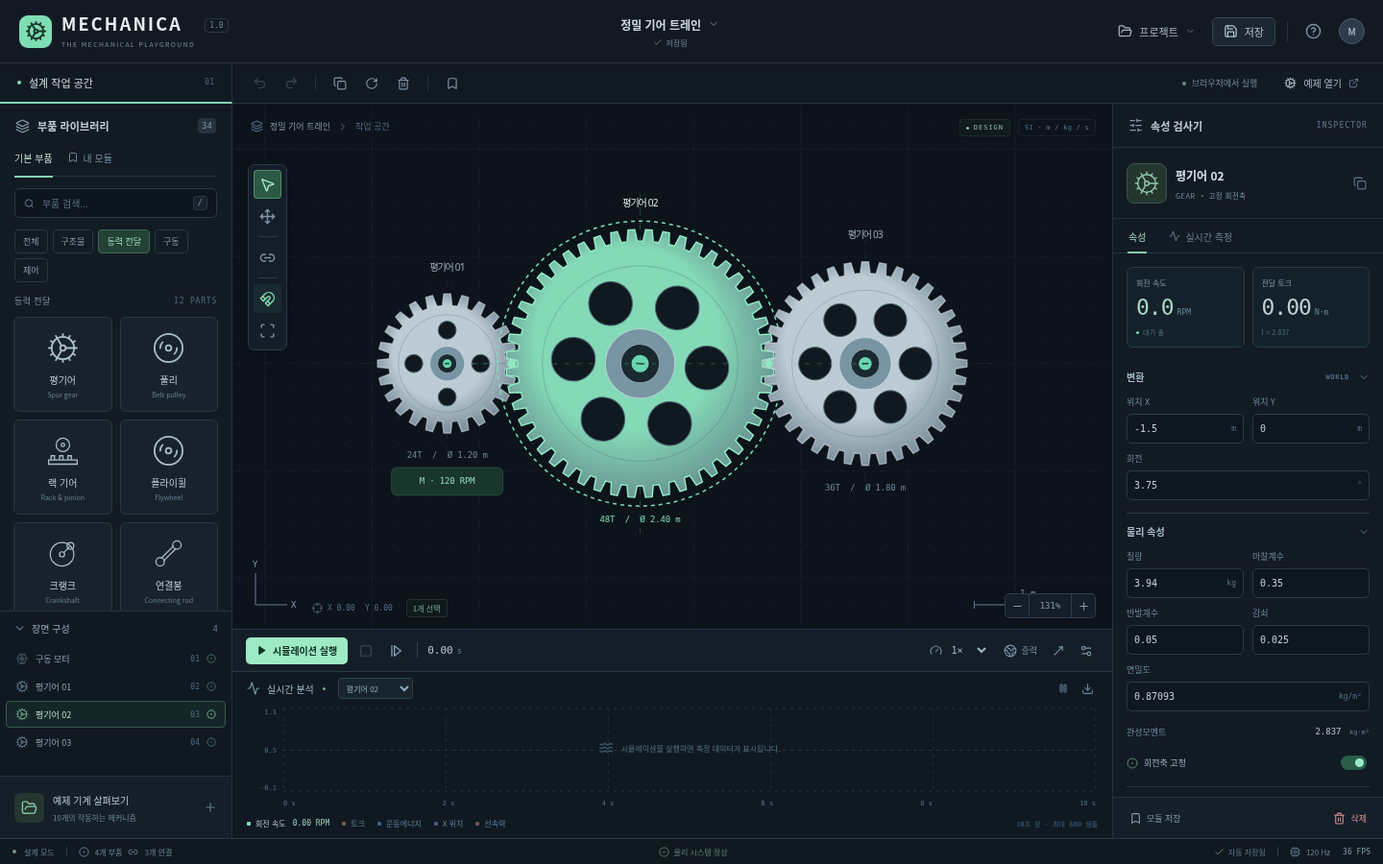
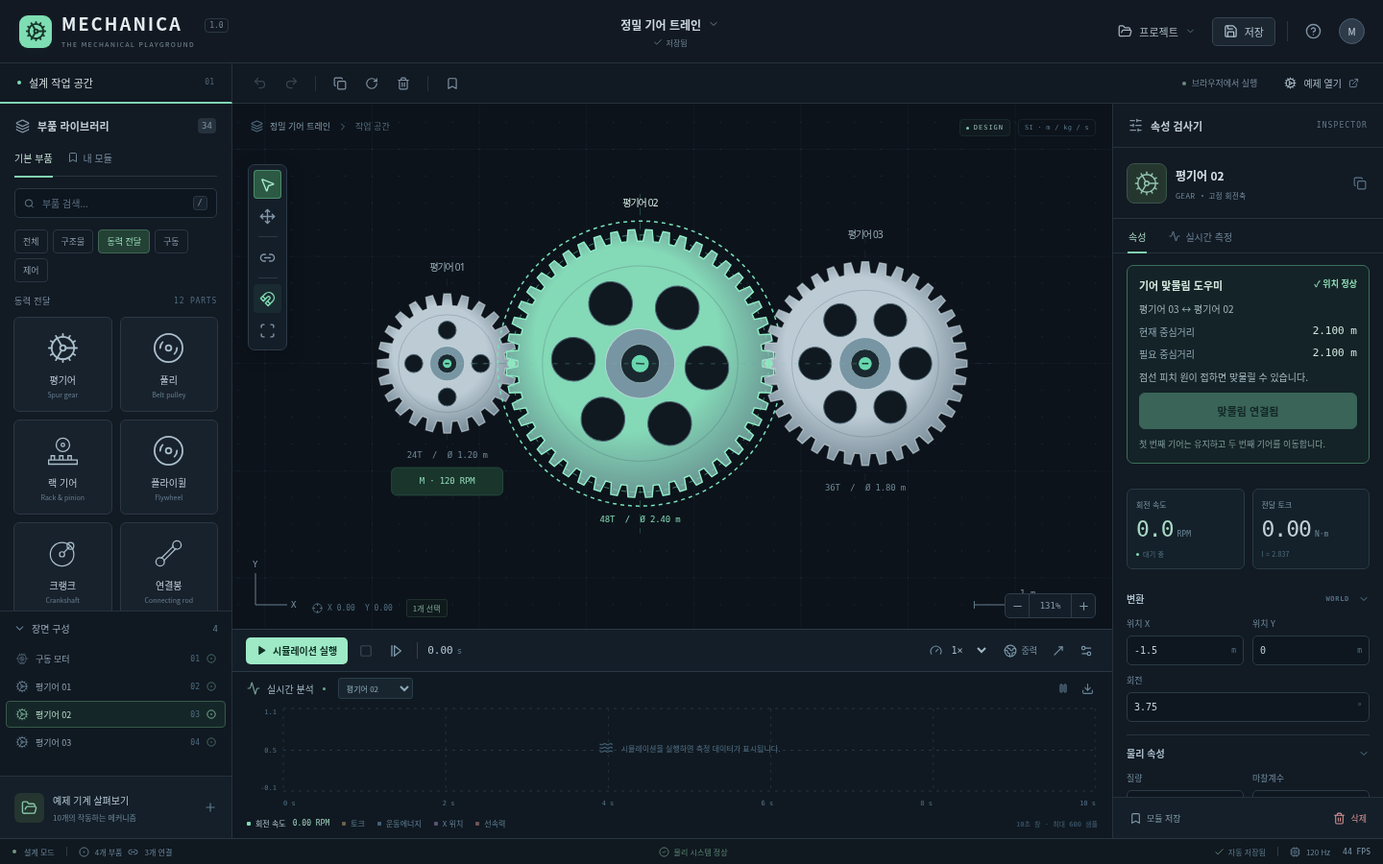
Make gear meshing discoverable and add direct canvas resizing

diff --git a/src/components/Workspace.tsx b/src/components/Workspace.tsx
@@ -2,11 +2,12 @@ import { useEffect, useRef, useState } from 'react';
 import { MousePointer2, Move, Link2, Magnet, Grid3X3, Crosshair, Minus, Plus, Scan, ChevronRight, Layers3 } from 'lucide-react';
 import { useEditor } from '../store/editor';
 import { useSimulation, simulationFrame } from '../store/simulation';
-import { type Part, type Vec, type Tool, ROTARY, LOGIC, radiusOf, localToWorld, worldToLocal, portsOf } from '../model/types';
+import { type Part, type Vec, type Tool, ROTARY, LOGIC, radiusOf, localToWorld, worldToLocal, portsOf, isGear } from '../model/types';
 import { makePart, makeConnection, LIBRARY, CONNECTION_NAMES, type LibraryItem } from '../model/library';
+import { snapGear, resizeFromEdge, resizable, resizeHandles } from '../model/editing';
 import { nearestPort } from '../physics/validation';
 import { drawPart, drawConnection, drawAnnotations, drawVector, partBounds } from './render';
-type Drag={kind:'pan';start:Vec;camera:Vec}|{kind:'parts';start:Vec;positions:Map<string,Vec>;preview:Map<string,Vec>}|{kind:'box';start:Vec;end:Vec;shift:boolean}|{kind:'physical'};
+type Drag={kind:'resize';original:Part;edge:number;preview:Part}|{kind:'pan';start:Vec;camera:Vec}|{kind:'parts';start:Vec;positions:Map<string,Vec>;preview:Map<string,Vec>}|{kind:'box';start:Vec;end:Vec;shift:boolean}|{kind:'physical'};
 export function Workspace(){
   const canvas=useRef<HTMLCanvasElement>(null),container=useRef<HTMLDivElement>(null);
   const dims=useRef({width:1,height:1}),drag=useRef<Drag|null>(null),pointer=useRef<Vec>({x:0,y:0}),hover=useRef<string|null>(null);
@@ -45,7 +46,7 @@ export function Workspace(){
       for(let x=Math.floor(left/grid)*grid;x<right;x+=grid)for(let y=Math.floor(top/grid)*grid;y<bottom;y+=grid){ctx.beginPath();ctx.arc(x,y,.65/k,0,Math.PI*2);ctx.fill();}
       ctx.lineWidth=1/k;ctx.strokeStyle='#52677a15';ctx.beginPath();for(let x=Math.floor(left/(grid*4))*grid*4;x<right;x+=grid*4){ctx.moveTo(x,top);ctx.lineTo(x,bottom);}for(let y=Math.floor(top/(grid*4))*grid*4;y<bottom;y+=grid*4){ctx.moveTo(left,y);ctx.lineTo(right,y);}ctx.stroke();
       const preview=drag.current?.kind==='parts'?drag.current.preview:null;
-      const parts=preview?s.project.parts.map(p=>({...p,...preview.get(p.id)})):s.project.parts;
+      const parts=preview?s.project.parts.map(p=>({...p,...preview.get(p.id)})):drag.current?.kind==='resize'?s.project.parts.map(p=>p.id===(drag.current as Extract<Drag,{kind:'resize'}>).preview.id?(drag.current as Extract<Drag,{kind:'resize'}>).preview:p):s.project.parts;
       const project={...s.project,parts};
       const index=new Map(parts.map(p=>[p.id,p]));
       const visible=parts.filter(p=>{const pose=engine?.pose(p.id)??p,extent=ROTARY.has(p.kind)?radiusOf(p)+.8:Math.hypot(p.width,p.height)/2+.8;return pose.x+extent>left&&pose.x-extent<right&&pose.y+extent>top&&pose.y-extent<bottom;});
@@ -53,6 +54,15 @@ export function Workspace(){
       for(const p of visible)drawPart(ctx,p,s.selected.includes(p.id),hover.current===p.id,k,engine);
       if(s.project.settings.showConnections)for(const c of project.connections.filter(c=>!['signal','spring','rope','weld'].includes(c.kind)))drawConnection(ctx,c,project,engine,k,index);
       if(s.project.settings.showLabels&&k>30)for(const p of visible)drawAnnotations(ctx,p,k,engine,s.selected.includes(p.id));
+      if(sim.mode==='design'){
+        for(const p of visible){
+          if(isGear(p)&&(s.selected.includes(p.id)||drag.current?.kind==='parts')){ctx.save();ctx.strokeStyle='#7eddb290';ctx.lineWidth=1/k;ctx.setLineDash([5/k,4/k]);ctx.beginPath();ctx.arc(p.x,p.y,radiusOf(p),0,Math.PI*2);ctx.stroke();ctx.restore();}
+          if(s.tool==='select'&&!s.placing&&s.selected.length===1&&s.selected[0]===p.id&&resizable(p)){
+            for(const h of resizeHandles(p)){const at=localToWorld(p,h);ctx.fillStyle='#8fe8c1';ctx.strokeStyle='#183e2c';ctx.lineWidth=1/k;ctx.fillRect(at.x-5/k,at.y-5/k,10/k,10/k);ctx.strokeRect(at.x-5/k,at.y-5/k,10/k,10/k);}
+            ctx.fillStyle='#aad9c5';ctx.font=`${11/k}px system-ui`;ctx.textAlign='center';ctx.fillText(`↔ ${p.width.toFixed(2)} m  ×  ${p.height.toFixed(2)} m · 네모를 드래그`,p.x,p.y+(Math.abs(Math.sin(p.angle))*p.width+Math.abs(Math.cos(p.angle))*p.height)/2+22/k);ctx.textAlign='left';
+          }
+        }
+      }
       if(s.project.settings.showVectors&&engine){
         for(const p of visible){const m=engine.metric(p.id)!;if(m.speed>.001)drawVector(ctx,m,{x:m.x+m.vx*.2,y:m.y+m.vy*.2},'#8dbfee',k);const r=engine.parts.get(p.id)!;if(r.mount){const f=r.mount.getReactionForce(120);if(f.length()>.05)drawVector(ctx,m,{x:m.x+f.x*.012,y:m.y+f.y*.012},'#e4b677',k);}if(ROTARY.has(p.kind)&&Math.abs(m.omega)>.01){const rad=radiusOf(p)*.53,dir=Math.sign(m.omega),end=dir*1.1;ctx.beginPath();ctx.arc(m.x,m.y,rad,0,end,dir<0);ctx.strokeStyle='#8ae9bd';ctx.lineWidth=1.5/k;ctx.stroke();const at={x:m.x+Math.cos(end)*rad,y:m.y+Math.sin(end)*rad};drawVector(ctx,{x:at.x+Math.sin(end)*dir*.08,y:at.y-Math.cos(end)*dir*.08},at,'#8ae9bd',k);}}
         for(const p of engine.contacts){ctx.beginPath();ctx.arc(p.x,p.y,3/k,0,Math.PI*2);ctx.fillStyle='#edb275';ctx.fill();}
@@ -71,14 +81,16 @@ export function Workspace(){
     }
     request=requestAnimationFrame(draw);
     const wheel=(e:WheelEvent)=>{e.preventDefault();const pt=eventPoint(e),before=toWorld(pt),camera=useEditor.getState().camera,next=Math.max(18,Math.min(350,camera.scale*Math.exp(-e.deltaY*.0015)));useEditor.setState({camera:{scale:next,x:before.x-(pt.x-dims.current.width/2)/next,y:before.y-(pt.y-dims.current.height/2)/next}});};
+    const cancel=(e:KeyboardEvent)=>{if(e.key==='Escape'){drag.current=null;useSimulation.getState().engine?.endDrag();}};window.addEventListener('keydown',cancel);
     el.addEventListener('wheel',wheel,{passive:false});
-    return()=>{cancelAnimationFrame(request);resize.disconnect();el.removeEventListener('wheel',wheel);};
+    return()=>{window.removeEventListener('keydown',cancel);cancelAnimationFrame(request);resize.disconnect();el.removeEventListener('wheel',wheel);};
   },[]);
   function down(e:React.PointerEvent<HTMLCanvasElement>){
     if(e.button===2)return;e.currentTarget.setPointerCapture(e.pointerId);
     const pt=eventPoint(e),w=toWorld(pt),s=useEditor.getState(),sim=useSimulation.getState();pointer.current=pt;
     if(s.tool==='pan'||e.button===1){drag.current={kind:'pan',start:pt,camera:{x:s.camera.x,y:s.camera.y}};return;}
     if(s.placing&&sim.mode==='design'){const grid=s.project.settings.gridSize;const point=s.project.settings.snap?{x:Math.round(w.x/grid)*grid,y:Math.round(w.y/grid)*grid}:w;s.addLibrary(s.placing,point);return;}
+    if(sim.mode==='design'&&s.tool==='select'&&s.selected.length===1){const chosen=s.project.parts.find(p=>p.id===s.selected[0]);if(chosen&&resizable(chosen)){const edge=resizeHandles(chosen).findIndex(h=>{const a=localToWorld(chosen,h);return Math.hypot(a.x-w.x,a.y-w.y)<10/s.camera.scale;});if(edge>=0){drag.current={kind:'resize',original:chosen,edge,preview:chosen};return;}}}
     const p=hit(w);
     if(s.tool==='connect'&&sim.mode==='design'){
       if(!p)return;const center=['gear','shaft','belt','crossed','rack','clutch','signal'].includes(s.connectionKind),port=center?{x:0,y:0}:nearestPort(p,w,portsOf(p));
@@ -95,10 +107,11 @@ export function Workspace(){
   }
   function move(e:React.PointerEvent<HTMLCanvasElement>){
     const pt=eventPoint(e),w=toWorld(pt);pointer.current=pt;setCursor(w);const d=drag.current,s=useEditor.getState();
-    if(!d){hover.current=hit(w)?.id??null;return;}
+    if(!d){hover.current=hit(w)?.id??null;const chosen=s.project.parts.find(p=>p.id===s.selected[0]);let onHandle=false;if(useSimulation.getState().mode==='design'&&s.tool==='select'&&!s.placing&&s.selected.length===1&&chosen&&resizable(chosen))onHandle=resizeHandles(chosen).some(h=>{const a=localToWorld(chosen,h);return Math.hypot(a.x-w.x,a.y-w.y)<10/s.camera.scale;});if(canvas.current)canvas.current.style.cursor=onHandle?'nwse-resize':s.tool==='pan'?'grab':s.placing||s.tool==='connect'?'crosshair':'default';return;}
     if(d.kind==='pan'){useEditor.setState({camera:{...s.camera,x:d.camera.x-(pt.x-d.start.x)/s.camera.scale,y:d.camera.y-(pt.y-d.start.y)/s.camera.scale}});}
     else if(d.kind==='box')d.end=w;
     else if(d.kind==='physical')useSimulation.getState().engine?.drag(w);
+    else if(d.kind==='resize'){d.preview=resizeFromEdge(d.original,d.edge,w,s.project.settings.snap&&!e.altKey?s.project.settings.gridSize:0);}
     else if(d.kind==='parts'){
       let dx=w.x-d.start.x,dy=w.y-d.start.y;const first=d.positions.values().next().value!;
       if(s.project.settings.snap&&!e.altKey){const grid=s.project.settings.gridSize;dx=Math.round((first.x+dx)/grid)*grid-first.x;dy=Math.round((first.y+dy)/grid)*grid-first.y;
@@ -106,19 +119,21 @@ export function Workspace(){
         for(const[id,old]of d.positions){const p=s.project.parts.find(p=>p.id===id)!;for(const port of portsOf(p)){const a=localToWorld({...p,x:old.x+dx,y:old.y+dy},port);for(const other of s.project.parts){if(d.positions.has(other.id))continue;for(const bport of portsOf(other)){const b=localToWorld(other,bport),dist=Math.hypot(b.x-a.x,b.y-a.y);if(dist<closest){closest=dist;adjust={x:b.x-a.x,y:b.y-a.y};}}}}}
         if(adjust){dx+=adjust.x;dy+=adjust.y;}
       }
+      if(s.project.settings.snap&&!e.altKey&&d.positions.size===1){const id=[...d.positions.keys()][0],p=s.project.parts.find(p=>p.id===id)!,old=d.positions.get(id)!;const snapped=snapGear({...p,x:old.x+dx,y:old.y+dy},s.project.parts,18/s.camera.scale);if(snapped){dx=snapped.point.x-old.x;dy=snapped.point.y-old.y;}}
       d.preview=new Map([...d.positions].map(([id,p])=>[id,{x:p.x+dx,y:p.y+dy}]));
     }
   }
   function up(e:React.PointerEvent<HTMLCanvasElement>){
     const d=drag.current,s=useEditor.getState();drag.current=null;
     if(e.currentTarget.hasPointerCapture(e.pointerId))e.currentTarget.releasePointerCapture(e.pointerId);
+    if(d?.kind==='resize'&&Math.abs(d.preview.width-d.original.width)+Math.abs(d.preview.height-d.original.height)>.001)s.resizePart(d.preview);
     if(d?.kind==='physical')useSimulation.getState().engine?.endDrag();
     if(d?.kind==='parts'){const changed=[...d.preview].some(([id,p])=>Math.hypot(p.x-d.positions.get(id)!.x,p.y-d.positions.get(id)!.y)>.001);if(changed)s.moveParts(d.preview);}
     if(d?.kind==='box'){const minX=Math.min(d.start.x,d.end.x),maxX=Math.max(d.start.x,d.end.x),minY=Math.min(d.start.y,d.end.y),maxY=Math.max(d.start.y,d.end.y);const ids=s.project.parts.filter(p=>p.x>=minX&&p.x<=maxX&&p.y>=minY&&p.y<=maxY).map(p=>p.id);s.select(d.shift?[...new Set([...s.selected,...ids])]:ids);}
   }
   const setTool=(tool:Tool)=>{useEditor.setState({tool,placing:null,from:null});};
   return <div className={`workspace ${tool==='pan'?'panning':placing||tool==='connect'?'placing':''}`} ref={container}>
-    <canvas ref={canvas} aria-label="기계 설계 작업 공간" tabIndex={0} onPointerDown={down} onPointerMove={move} onPointerUp={up} onPointerCancel={up} onContextMenu={e=>e.preventDefault()} onDragOver={e=>{e.preventDefault();e.dataTransfer.dropEffect='copy';}} onDrop={e=>{e.preventDefault();if(mode!=='design')return;const kind=e.dataTransfer.getData('mechanica/part') as LibraryItem['kind'];if(LIBRARY.some(i=>i.kind===kind))useEditor.getState().addLibrary(kind,toWorld(eventPoint(e)));}} />
+    <canvas ref={canvas} aria-label="기계 설계 작업 공간" tabIndex={0} onPointerDown={down} onPointerMove={move} onPointerUp={up} onPointerCancel={()=>{drag.current=null;useSimulation.getState().engine?.endDrag();}} onContextMenu={e=>e.preventDefault()} onDragOver={e=>{e.preventDefault();e.dataTransfer.dropEffect='copy';}} onDrop={e=>{e.preventDefault();if(mode!=='design')return;const kind=e.dataTransfer.getData('mechanica/part') as LibraryItem['kind'];if(LIBRARY.some(i=>i.kind===kind))useEditor.getState().addLibrary(kind,toWorld(eventPoint(e)));}} />
     <div className="canvas-breadcrumb"><Layers3 size={13}/><span>{name}</span><ChevronRight size={12}/><span className="muted">작업 공간</span></div>
     <div className="canvas-badges"><span className={`mode-pill ${mode!=='design'?'live':''}`}><i/>{mode==='design'?'DESIGN':mode==='running'?'LIVE PHYSICS':'PAUSED'}</span><span className="si-badge">SI · m / kg / s</span></div>
     <div className="floating-tools" role="toolbar" aria-label="편집 도구">

diff --git a/src/components/Inspector.tsx b/src/components/Inspector.tsx
@@ -1,9 +1,10 @@
-import { useState, useRef } from 'react';
+import { useState, useRef, useEffect } from 'react';
 import { SlidersHorizontal, ChevronDown, CircleDot, Link2, Trash2, Copy, RotateCw, Info, ArrowUpRight, Group, Ungroup, AlignHorizontalJustifyCenter, AlignVerticalJustifyCenter, Bookmark, Activity, Zap } from 'lucide-react';
 import { type Part, type Connection, ROTARY, LINEAR, LOGIC, radiusOf, inertiaOf } from '../model/types';
 import { CONNECTION_NAMES, makeConnection } from '../model/library';
 import { useEditor, connectionFromSelection } from '../store/editor';
 import { useSimulation } from '../store/simulation';
+import { GearAssist } from './GearAssist';
 import { PartIcon } from './PartIcon';
 type FieldProps={label:string;value:number;unit?:string;min?:number;max?:number;step?:number;disabled?:boolean;onChange:(v:number)=>void};
 export function NumericField({label,value,unit,min=-10000,max=10000,step=.1,disabled,onChange}:FieldProps){
@@ -16,14 +17,16 @@ function Section({title,children,badge}:{title:string;children:React.ReactNode;b
 const fmt=(n:number,d=2)=>Number.isFinite(n)?n.toLocaleString('en-US',{minimumFractionDigits:d,maximumFractionDigits:d}):'—';
 export function Inspector(){
   const project=useEditor(s=>s.project),selected=useEditor(s=>s.selected),mode=useSimulation(s=>s.mode),engine=useSimulation(s=>s.engine),metrics=useSimulation(s=>s.metrics);
+  const panel=useRef<HTMLElement>(null);
+  useEffect(()=>{const el=panel.current?.querySelector('.inspector-scroll');if(el)el.scrollTop=0;},[selected.join(',')]);
   const system=useSimulation(s=>s.system);
   const [tab,setTab]=useState<'properties'|'measure'>('properties'),[expanded,setExpanded]=useState<string|null>(null),[connectKind,setConnectKind]=useState<Connection['kind']>('gear');
   const base=project.parts.find(p=>p.id===selected[0]);
   const part=base?(engine?.parts.get(base.id)?.part??base):undefined,m=part?metrics[part.id]:undefined,design=mode==='design';
   const edit=(patch:Partial<Part>)=>{if(!part)return;if(design)useEditor.getState().patchPart(part.id,patch);else{engine?.setLive(part.id,patch);useSimulation.getState().publish();}};
   const patchConnection=(id:string,patch:Partial<Connection>)=>{if(!design){engine?.setConnectionLive(id,patch);useSimulation.getState().publish();return;}useEditor.getState().commit(p=>{const c=p.connections.find(c=>c.id===id);if(c)Object.assign(c,patch);});};
-  return <aside className="inspector-panel"><div className="panel-heading"><div><SlidersHorizontal size={15}/><h2>속성 검사기</h2></div><span className="tiny-label">INSPECTOR</span></div>
-    {selected.length>1?<div className="inspector-scroll"><div className="selection-summary"><span className="selected-part-icon"><Group size={26}/></span><h3>{selected.length}개 부품 선택</h3><p>부품을 함께 편집하고 연결하세요.</p></div>
+  return <aside className="inspector-panel" ref={panel}><div className="panel-heading"><div><SlidersHorizontal size={15}/><h2>속성 검사기</h2></div><span className="tiny-label">INSPECTOR</span></div>
+    {selected.length>1?<div className="inspector-scroll">{design&&<GearAssist/>}<div className="selection-summary"><span className="selected-part-icon"><Group size={26}/></span><h3>{selected.length}개 부품 선택</h3><p>부품을 함께 편집하고 연결하세요.</p></div>
       <Section title="선택 편집"><div className="action-grid"><button disabled={!design} onClick={()=>useEditor.getState().group()}><Group size={15}/> 그룹화</button><button disabled={!design} onClick={()=>useEditor.getState().ungroup()}><Ungroup size={15}/> 그룹 해제</button><button disabled={!design} onClick={()=>useEditor.getState().align('x')}><AlignHorizontalJustifyCenter size={15}/> X 정렬</button><button disabled={!design} onClick={()=>useEditor.getState().align('y')}><AlignVerticalJustifyCenter size={15}/> Y 정렬</button><button disabled={!design} onClick={()=>useEditor.getState().duplicate()}><Copy size={15}/> 복제</button><button disabled={!design} onClick={()=>useEditor.getState().rotateSelected(Math.PI/12)}><RotateCw size={15}/> 15° 회전</button></div><button className="secondary full" disabled={!design} onClick={()=>useEditor.setState({dialog:'module'})}><Bookmark size={13}/> 사용자 모듈로 저장</button></Section>
       {selected.length===2&&<Section title="부품 연결"><select className="full-select" aria-label="선택한 부품의 연결 종류" value={connectKind} onChange={e=>setConnectKind(e.target.value as typeof connectKind)}>{Object.entries(CONNECTION_NAMES).map(([k,v])=><option key={k} value={k}>{v}</option>)}</select><button className="primary full" disabled={!design} onClick={()=>connectionFromSelection(connectKind)}><Link2 size={14}/> 선택한 부품 연결</button><button className="secondary full" disabled={!design} onClick={()=>useEditor.getState().meshSelected()}>기어 중심거리 맞추기</button><p className="field-hint">동축 연결은 중심을 겹치고, 기어 맞물림은 피치 원을 접하게 배치하세요.</p></Section>}
       <button className="danger-text full" disabled={!design} onClick={()=>useEditor.getState().removeSelected()}><Trash2 size={13}/> 선택한 부품 삭제</button>
@@ -31,6 +34,7 @@ export function Inspector(){
       <div className="selected-part"><span className={`selected-part-icon ${part.color}`}><PartIcon kind={part.kind} size={28}/></span><div><input aria-label="부품 이름" value={part.name} disabled={!design} onChange={e=>edit({name:e.target.value.slice(0,100)||'부품'})}/><span>{part.kind.toUpperCase()}<i/> {part.mounted?'고정 회전축':LINEAR.has(part.kind)?'직선 레일':LOGIC.has(part.kind)?'제어 요소':part.kind==='frame'?'고정 강체':'자유 강체'}</span></div><button className="icon-button" aria-label="선택한 부품 복제" disabled={!design} title="복제 (Ctrl+D)" onClick={()=>useEditor.getState().duplicate()}><Copy size={14}/></button></div>
       <div className="inspector-tabs"><button className={tab==='properties'?'active':''} onClick={()=>setTab('properties')}>속성</button><button className={tab==='measure'?'active':''} onClick={()=>setTab('measure')}><Activity size={12}/> 실시간 측정</button></div>
       <div className="inspector-scroll">
+        {design&&<GearAssist/>}
         {LOGIC.has(part.kind)?<div className={`signal-reading ${m?.signal?'on':''}`}><span className="signal-dot"/><span>제어 신호</span><strong>{m?.signal?'HIGH · 1':'LOW · 0'}</strong></div>:<div className="live-readings"><div><span>회전 속도</span><strong>{fmt(m?.rpm??0,1)}<small>RPM</small></strong><span className="reading-sub"><span className="mint-dot"/>{mode==='running'?'실시간 측정':'대기 중'}</span></div><div><span>전달 토크</span><strong>{fmt(m?.torque??0,2)}<small>N·m</small></strong><span className="reading-sub">{ROTARY.has(part.kind)?`I = ${fmt(inertiaOf(part),3)}`:'실제 관절 반력'}</span></div></div>}
         {!design&&<div className="experiment-note"><Info size={12}/> 실험값은 설계 복귀 시 초기화됩니다.</div>}
         {tab==='measure'?<>
@@ -41,6 +45,7 @@ export function Inspector(){
           <Section title="실험 도구"><p className="field-hint">시뮬레이션 중 강체를 드래그하면 힘을 가합니다. 아래 버튼은 1 N·s 또는 1 N·m·s의 충격량을 가합니다.</p><div className="action-grid"><button disabled={design} onClick={()=>engine?.impulse(part.id,{x:1,y:0})}>+X 충격</button><button disabled={design} onClick={()=>engine?.impulse(part.id,{x:-1,y:0})}>−X 충격</button><button disabled={design} onClick={()=>engine?.angularImpulse(part.id,1)}>+ 회전 충격</button><button disabled={design} onClick={()=>engine?.angularImpulse(part.id,-1)}>− 회전 충격</button></div></Section>
         </>:<>
           {!LOGIC.has(part.kind)&&<>
+            {!ROTARY.has(part.kind)&&<p className="field-hint">작업 공간의 네모 손잡이를 드래그하면 길이·높이를 바꿀 수 있습니다.</p>}
             <Section title="변환" badge={<span className="section-unit">WORLD</span>}><div className="field-grid"><NumericField label="위치 X" value={part.x} unit="m" disabled={!design} onChange={x=>edit({x})}/><NumericField label="위치 Y" value={part.y} unit="m" disabled={!design} onChange={y=>edit({y})}/></div><NumericField label="회전" value={part.angle*180/Math.PI} unit="°" step={project.settings.rotationSnap} disabled={!design} onChange={angle=>edit({angle:angle*Math.PI/180})}/></Section>
             <Section title="물리 속성"><div className="field-grid">
               <NumericField label="질량" value={part.mass} unit="kg" min={.01} max={10000} disabled={!design} onChange={mass=>edit({mass})}/>

diff --git a/src/store/editor.ts b/src/store/editor.ts
@@ -1,8 +1,9 @@
 import { create } from 'zustand';
-import { type Project, type Part, type Connection, type ConnectionKind, type Vec, type Tool, type UserModule, clone, uid, DEFAULT_SETTINGS, ROTARY, radiusOf } from '../model/types';
+import { type Project, type Part, type Connection, type ConnectionKind, type Vec, type Tool, type UserModule, clone, uid, DEFAULT_SETTINGS, ROTARY, radiusOf, localToWorld, worldToLocal, isGear } from '../model/types';
 import { defaultProject } from '../model/examples';
 import { type LibraryItem, makePart, makeConnection, springKit } from '../model/library';
 import { extractModule, instantiateModule } from '../model/modules';
+import { snapGear } from '../model/editing';
 import { checkConnection } from '../physics/validation';
 
 export type Dialog='examples'|'projects'|'help'|'module'|null;
@@ -12,7 +13,7 @@ export interface EditorState {
   camera:{x:number;y:number;scale:number};fitToken:number;dialog:Dialog;toast:string|null;
   savedAt:number;modules:UserModule[];clipboard:UserModule|null;hydrated:boolean;
   commit:(mutate:(p:Project)=>void)=>void;load:(p:Project)=>void;newProject:()=>void;
-  select:(ids:string[])=>void;patchPart:(id:string,patch:Partial<Part>)=>void;
+  fitGears:(a:string,b:string)=>void;resizePart:(part:Part)=>void;select:(ids:string[])=>void;patchPart:(id:string,patch:Partial<Part>)=>void;
   moveParts:(positions:Map<string,Vec>)=>void;removeSelected:()=>void;rotateSelected:(delta:number)=>void;
   undo:()=>void;redo:()=>void;copy:()=>void;paste:()=>void;duplicate:()=>void;
   group:()=>void;ungroup:()=>void;align:(axis:'x'|'y')=>void;meshSelected:()=>void;
@@ -41,15 +42,24 @@ export const useEditor=create<EditorState>((set,get)=>({
   group(){const s=get(),id=uid();if(s.selected.length<2)return;get().commit(p=>p.parts.forEach(p=>{if(s.selected.includes(p.id))p.group=id;}));get().notify('선택한 부품을 그룹으로 묶었습니다.');},
   ungroup(){const s=get();get().commit(p=>p.parts.forEach(p=>{if(s.selected.includes(p.id))p.group='';}));},
   align(axis){const s=get(),parts=s.project.parts.filter(p=>s.selected.includes(p.id));if(parts.length<2)return;const avg=parts.reduce((sum,p)=>sum+p[axis],0)/parts.length;get().commit(p=>p.parts.forEach(part=>{if(s.selected.includes(part.id))part[axis]=avg;}));},
-  meshSelected(){const s=get(),parts=s.project.parts.filter(p=>s.selected.includes(p.id));if(parts.length!==2||!parts.every(p=>ROTARY.has(p.kind))){get().notify('맞물릴 두 기어를 선택하세요.');return;}
-    const[a,b]=parts,angle=Math.atan2(b.y-a.y,b.x-a.x);get().patchPart(b.id,{x:a.x+Math.cos(angle)*(radiusOf(a)+radiusOf(b)),y:a.y+Math.sin(angle)*(radiusOf(a)+radiusOf(b)),module:a.module});},
+  fitGears(aId,bId){const s=get(),a=s.project.parts.find(p=>p.id===aId),b=s.project.parts.find(p=>p.id===bId);if(!a||!b||!isGear(a)||!isGear(b))return;
+    const angle=Math.atan2(b.y-a.y,b.x-a.x),radius=radiusOf(a)+b.teeth*a.module/2;
+    get().commit(p=>{const moved=p.parts.find(p=>p.id===bId)!;Object.assign(moved,{module:a.module,x:a.x+Math.cos(angle)*radius,y:a.y+Math.sin(angle)*radius});
+      const existing=p.connections.find(c=>c.kind==='gear'&&((c.a===aId&&c.b===bId)||(c.a===bId&&c.b===aId)));if(existing)existing.enabled=true;else p.connections.push(makeConnection('gear',aId,bId));});
+    set({selected:[aId,bId],from:null});get().notify('기어의 피치 원을 맞추고 연결했습니다. Ctrl+Z로 되돌릴 수 있습니다.');
+  },
+  resizePart(next){get().commit(p=>{const old=p.parts.find(p=>p.id===next.id);if(!old)return;
+    for(const c of p.connections){if(c.a===old.id)c.portA=worldToLocal(next,localToWorld(old,c.portA));if(c.b===old.id)c.portB=worldToLocal(next,localToWorld(old,c.portB));}
+    next.customPorts=old.customPorts.map(port=>worldToLocal(next,localToWorld(old,port)));Object.assign(old,next);});},
+  meshSelected(){const s=get();if(s.selected.length===2)s.fitGears(s.selected[0],s.selected[1]);},
   addLibrary(kind,point){
     if(kind==='hinge-tool'||kind==='rope-tool'||kind==='clutch-tool'){set({tool:'connect',connectionKind:kind==='hinge-tool'?'hinge':kind==='rope-tool'?'rope':'clutch',placing:null,from:null});return;}
     if(get().project.parts.length>=1400){get().notify('안정적인 편집을 위해 부품 수를 줄여 주세요.');return;}
-    const kit=kind==='spring-kit'||kind==='damper-kit'?springKit(point,kind==='damper-kit'):{parts:[makePart(kind,point.x,point.y)],connections:[]};
+    let placement=point;if(kind==='gear'&&get().project.settings.snap){const candidate=makePart('gear',point.x,point.y);placement=snapGear(candidate,get().project.parts,18/get().camera.scale)?.point??point;}
+    const kit=kind==='spring-kit'||kind==='damper-kit'?springKit(point,kind==='damper-kit'):{parts:[makePart(kind,placement.x,placement.y)],connections:[]};
     get().commit(p=>{p.parts.push(...kit.parts);p.connections.push(...kit.connections);});set({selected:kit.parts.map(p=>p.id),placing:null});
   },
-  addConnection(c){const s=get(),error=checkConnection(c,s.project.parts);if(error){get().notify(error);return false;}
+  addConnection(c){const s=get(),error=checkConnection(c,s.project.parts);if(error){if(c.kind==='gear')set({selected:[c.a,c.b]});get().notify(error+(c.kind==='gear'?' · 오른쪽 맞물림 도우미에서 바로 맞출 수 있습니다.':''));return false;}
     if(s.project.connections.some(x=>x.kind===c.kind&&((x.a===c.a&&x.b===c.b)||(c.kind!=='signal'&&x.a===c.b&&x.b===c.a)))){get().notify('이미 같은 연결이 있습니다.');return false;}
     get().commit(p=>p.connections.push(c));set({from:null});get().notify('물리 연결이 생성되었습니다.');return true;},
   insertModule(m,point){const s=get(),kit=instantiateModule(m,point??s.camera);if(s.project.parts.length+kit.parts.length>1500){get().notify('최대 1,500개의 부품을 지원합니다.');return;}get().commit(p=>{p.parts.push(...kit.parts);p.connections.push(...kit.connections);});set({selected:kit.parts.map(p=>p.id)});},

diff --git a/tests/browser/workbench.spec.ts b/tests/browser/workbench.spec.ts
@@ -1,5 +1,7 @@
 import { test, expect } from '@playwright/test';
 import { readFile } from 'node:fs/promises';
+import { EXAMPLES } from '../../src/model/examples';
+import { makePart } from '../../src/model/library';
 test.beforeEach(async({page})=>{await page.goto('/');await expect(page.locator('.brand h1')).toHaveText('MECHANICA');});
 test('simulation runs, pauses, steps, and restores the design',async({page})=>{
   const errors:string[]=[];page.on('pageerror',error=>errors.push(error.message));
@@ -79,4 +81,27 @@ test('builds a new working geared machine from independent library parts',async(
   await page.getByRole('button',{name:'선택 도구',exact:true}).click();await page.locator('.tree-row').last().click();
   await page.getByRole('button',{name:'시뮬레이션 실행',exact:true}).click();
   await expect.poll(async()=>parseFloat((await page.locator('.live-readings strong').first().textContent())??'0')).toBeLessThan(-5);
+});
+test('repairs a gear distance error with the visible one-click assistant',async({page})=>{
+ const x=page.getByRole('spinbutton',{name:'위치 X',exact:true});await x.fill('-1.2');await x.press('Tab');
+ await page.getByRole('button',{name:'시뮬레이션 실행',exact:true}).click();await expect(page.locator('.gear-assist')).toContainText('위치 조정 필요');await expect(page.locator('.gear-assist')).toContainText('300 mm');
+ await page.getByRole('button',{name:'위치 맞추고 연결',exact:true}).click();await expect(page.locator('.gear-assist')).toContainText('맞물림 연결됨');
+ await page.getByRole('button',{name:'시뮬레이션 실행',exact:true}).click();await expect(page.locator('.mode-pill')).toHaveText('LIVE PHYSICS');
+});
+test('resizes a frame using a canvas handle and undoes the change',async({page})=>{
+ const p=EXAMPLES[0].build();p.parts=[makePart('frame',0,0,{width:3,height:.25})];p.connections=[];
+ await page.getByLabel('프로젝트 JSON 파일').setInputFiles({name:'frame.json',mimeType:'application/json',buffer:Buffer.from(JSON.stringify(p))});
+ const width=page.getByRole('spinbutton',{name:'너비',exact:true});await expect(width).toHaveValue('3');
+ const canvas=page.getByLabel('기계 설계 작업 공간'),box=(await canvas.boundingBox())!;
+ const x=box.x+box.width/2+1.5*115,y=box.y+box.height/2-.025*115;
+ await page.mouse.move(x,y);await page.mouse.down();await page.mouse.move(x+115,y,{steps:12});await page.mouse.up();await expect(width).toHaveValue('4');
+ await page.keyboard.press('Control+z');await page.locator('.tree-row').first().click();await expect(width).toHaveValue('3');
+ await page.screenshot({path:'test-results/resizing-handles.png'});
+});
+test('dragging nearby gears snaps to pitch distance instead of the grid',async({page})=>{
+ const p=EXAMPLES[0].build();p.parts=[makePart('gear',0,0),makePart('gear',1.5,0)];p.connections=[];
+ await page.getByLabel('프로젝트 JSON 파일').setInputFiles({name:'snap.json',mimeType:'application/json',buffer:Buffer.from(JSON.stringify(p))});await expect(page.locator('.tree-row')).toHaveCount(2);
+ const box=(await page.getByLabel('기계 설계 작업 공간').boundingBox())!,x=box.x+box.width/2+.75*115,y=box.y+box.height/2-.025*115;
+ await page.mouse.move(x,y);await page.mouse.down();await page.mouse.move(x-25,y,{steps:10});await page.mouse.up();
+ await expect(page.getByRole('spinbutton',{name:'위치 X',exact:true})).toHaveValue('1.2');await expect(page.locator('.gear-assist')).toContainText('위치 정상');
 });

diff --git a/src/App.tsx b/src/App.tsx
@@ -53,6 +53,6 @@ export default function App(){
     };
     window.addEventListener('keydown',handler);return()=>window.removeEventListener('keydown',handler);
   },[]);
-  return <div className="app-shell"><Header/><main className="main-grid"><Library/><Workspace/><Inspector/><Scope/></main><footer className="status-bar"><div><span className={`status-indicator ${mode==='running'?'running':''}`}/><span>{mode==='design'?'설계 모드':mode==='running'?'물리 시뮬레이션 실행 중':'시뮬레이션 일시정지'}</span><span className="status-divider"/><CircleDot size={11}/><span>{project.parts.length}개 부품</span><Link2 size={11}/><span>{project.connections.length}개 연결</span></div><div className="status-center">{overloaded?<><AlertCircle size={11}/><span>계산 부하 높음 · 품질 또는 배속을 낮추세요</span></>:hasError?<button className="status-error" onClick={()=>useEditor.getState().notify(issues[0].message)}><AlertCircle size={11}/> 연결 확인 필요</button>:<><CheckCircle2 size={11}/><span>물리 시스템 정상</span></>}</div><div><span className="status-save">{savedAt?<><Check size={11}/> 자동 저장됨</>:<><LoaderCircle size={11}/> 저장 대기</>}</span><span className="status-divider"/><Cpu size={11}/><span>120 Hz</span><span className="fps">{fps} FPS</span></div></footer><Dialogs/>{toast&&<div className="toast" role="status"><InfoIcon/><span>{toast}</span><button aria-label="알림 닫기" onClick={()=>useEditor.setState({toast:null})}><X size={14}/></button></div>}</div>;
+  return <div className="app-shell"><Header/><main className="main-grid"><Library/><Workspace/><Inspector/><Scope/></main><footer className="status-bar"><div><span className={`status-indicator ${mode==='running'?'running':''}`}/><span>{mode==='design'?'설계 모드':mode==='running'?'물리 시뮬레이션 실행 중':'시뮬레이션 일시정지'}</span><span className="status-divider"/><CircleDot size={11}/><span>{project.parts.length}개 부품</span><Link2 size={11}/><span>{project.connections.length}개 연결</span></div><div className="status-center">{overloaded?<><AlertCircle size={11}/><span>계산 부하 높음 · 품질 또는 배속을 낮추세요</span></>:hasError?<button className="status-error" onClick={()=>{const s=useEditor.getState(),c=s.project.connections.find(c=>c.id===issues[0].connection);if(c)s.select([c.a,c.b]);s.notify(issues[0].message);}}><AlertCircle size={11}/> 연결 확인 필요</button>:<><CheckCircle2 size={11}/><span>물리 시스템 정상</span></>}</div><div><span className="status-save">{savedAt?<><Check size={11}/> 자동 저장됨</>:<><LoaderCircle size={11}/> 저장 대기</>}</span><span className="status-divider"/><Cpu size={11}/><span>120 Hz</span><span className="fps">{fps} FPS</span></div></footer><Dialogs/>{toast&&<div className="toast" role="status"><InfoIcon/><span>{toast}</span><button aria-label="알림 닫기" onClick={()=>useEditor.setState({toast:null})}><X size={14}/></button></div>}</div>;
 }
 function InfoIcon(){return <span className="toast-icon"><Activity size={16}/></span>;}

diff --git a/tests/editing.test.ts b/tests/editing.test.ts
@@ -1,0 +1,28 @@
+import {it,expect} from 'vitest';
+import {makePart,makeConnection} from '../src/model/library';
+import {snapGear,resizeFromEdge} from '../src/model/editing';
+import {localToWorld,radiusOf} from '../src/model/types';
+import {useEditor} from '../src/store/editor';
+import {EXAMPLES} from '../src/model/examples';
+import {MechanicaEngine} from '../src/physics/engine';
+it('snaps to pitch distance, including differently sized gears, and respects module compatibility',()=>{
+ const a=makePart('gear',0,0,{teeth:48}),b=makePart('gear',1.9,0);
+ const result=snapGear(b,[a],.2)!;expect(result.point.x).toBeCloseTo(radiusOf(a)+radiusOf(b));
+ expect(snapGear({...b,module:.06},[a],.2)).toBeNull();expect(snapGear({...b,x:5},[a],.2)).toBeNull();
+});
+it('resizes a rotated frame while holding the opposite end fixed and clamps minimum size',()=>{
+ const p=makePart('frame',3,2,{angle:Math.PI/3,width:3}),fixed=localToWorld(p,{x:-1.5,y:0});
+ const next=resizeFromEdge(p,1,localToWorld(p,{x:3.5,y:0}));
+ expect(next.width).toBeCloseTo(5);expect(localToWorld(next,{x:-next.width/2,y:0}).x).toBeCloseTo(fixed.x);expect(localToWorld(next,{x:-next.width/2,y:0}).y).toBeCloseTo(fixed.y);
+ expect(resizeFromEdge(p,1,localToWorld(p,{x:-5,y:0})).width).toBe(.08);
+});
+it('resizing preserves connected anchor world positions and is one undo operation',()=>{
+ const p=EXAMPLES[0].build(),frame=makePart('frame'),body=makePart('box',0,2),c=makeConnection('spring',frame.id,body.id,{portA:{x:1,y:0}});p.parts=[frame,body];p.connections=[c];useEditor.getState().load(p);
+ const next=resizeFromEdge(frame,1,{x:4,y:0});useEditor.getState().resizePart(next);
+ const s=useEditor.getState(),newFrame=s.project.parts[0],port=s.project.connections[0].portA;
+ expect(localToWorld(newFrame,port)).toEqual(localToWorld(frame,c.portA));expect(s.history).toHaveLength(1);s.undo();expect(useEditor.getState().project.parts[0]).toEqual(frame);
+});
+it('fits modules and geometry atomically, repairs existing links and produces a runnable mechanism',()=>{
+ const p=EXAMPLES[0].build();p.parts=p.parts.filter(p=>p.kind==='gear').slice(0,2);p.connections=[];p.parts[1].x+=.3;p.parts[1].module=.06;useEditor.getState().load(p);
+ useEditor.getState().fitGears(p.parts[0].id,p.parts[1].id);const s=useEditor.getState();expect(s.history).toHaveLength(1);expect(s.project.connections).toHaveLength(1);expect(()=>new MechanicaEngine(s.project)).not.toThrow();s.undo();expect(useEditor.getState().project).toEqual(p);
+});

diff --git a/src/components/GearAssist.tsx b/src/components/GearAssist.tsx
@@ -1,0 +1,13 @@
+import { useEditor } from '../store/editor';
+import { isGear, radiusOf } from '../model/types';
+export function GearAssist(){
+  const project=useEditor(s=>s.project),selected=useEditor(s=>s.selected);
+  const gears=project.parts.filter(p=>selected.includes(p.id)&&isGear(p));
+  if(!gears.length||selected.length>2||(selected.length===2&&gears.length!==2))return null;
+  const chosen=gears[0],near=gears[1]??project.parts.filter(p=>isGear(p)&&p.id!==chosen.id).sort((b,c)=>Math.abs(Math.hypot(chosen.x-b.x,chosen.y-b.y)-radiusOf(chosen)-radiusOf(b))-Math.abs(Math.hypot(chosen.x-c.x,chosen.y-c.y)-radiusOf(chosen)-radiusOf(c)))[0];
+  if(!near)return <div className="gear-assist"><strong>기어 맞물림 도우미</strong><p>다른 기어를 가까이 가져오면 피치 원에 자동으로 스냅됩니다.</p></div>;
+  const [a,b]=gears.length===1?[near,chosen]:[chosen,near];
+  const target=radiusOf(a)+radiusOf(b),d=Math.hypot(a.x-b.x,a.y-b.y),gap=d-target,same=Math.abs(a.module-b.module)<1e-5,ready=same&&Math.abs(gap)<=Math.max(.025,target*.015);
+  const linked=project.connections.some(c=>c.kind==='gear'&&c.enabled&&((c.a===a.id&&c.b===b.id)||(c.a===b.id&&c.b===a.id)));
+  return <div className={`gear-assist ${ready?'ready':''}`}><strong>기어 맞물림 도우미 <span>{ready?'✓ 위치 정상':'위치 조정 필요'}</span></strong><p>{a.name} ↔ {b.name}</p><div><span>현재 중심거리</span><code>{d.toFixed(3)} m</code></div><div><span>필요 중심거리</span><code>{target.toFixed(3)} m</code></div><p>{!same?'모듈이 다릅니다. 버튼을 누르면 두 번째 기어의 모듈도 맞춥니다.':ready?'점선 피치 원이 접하면 맞물릴 수 있습니다.':`${Math.abs(gap*1000).toFixed(0)} mm ${gap>0?'떨어져 있습니다. 더 가까이 옮기세요.':'겹쳤습니다. 조금 멀리 옮기세요.'}`}</p><button className="primary full" disabled={ready&&linked} onClick={()=>useEditor.getState().fitGears(a.id,b.id)}>{ready&&linked?'맞물림 연결됨':same?'위치 맞추고 연결':'모듈·위치 맞추고 연결'}</button><small>첫 번째 기어는 유지하고 두 번째 기어를 이동합니다.</small></div>;
+}

diff --git a/src/store/simulation.ts b/src/store/simulation.ts
@@ -1,4 +1,5 @@
 import { create } from 'zustand';
+import { validateMechanism } from '../physics/validation';
 import { MechanicaEngine, DT, type Metric } from '../physics/engine';
 import { type Mode } from '../model/types';
 import { useEditor } from './editor';
@@ -10,7 +11,7 @@ interface SimulationState {
 }
 export const useSimulation=create<SimulationState>((set,get)=>({
   mode:'design',engine:null,time:0,fps:60,overloaded:false,metrics:{},samples:[],tracking:'',system:{input:0,output:0,efficiency:null,energy:0},
-  start(){const s=get();try{const engine=s.engine??new MechanicaEngine(useEditor.getState().project);set({engine,mode:'running'});}catch(error){useEditor.getState().notify(error instanceof Error?error.message:'시뮬레이션을 시작할 수 없습니다.');}},
+  start(){const s=get();try{const engine=s.engine??new MechanicaEngine(useEditor.getState().project);set({engine,mode:'running'});}catch(error){const editor=useEditor.getState(),issue=validateMechanism(editor.project).find(i=>i.level==='error'),c=editor.project.connections.find(c=>c.id===issue?.connection);if(c)editor.select([c.a,c.b]);editor.notify((error instanceof Error?error.message:'시뮬레이션을 시작할 수 없습니다.')+(c?.kind==='gear'?' · 오른쪽 맞물림 도우미로 바로 수정하세요.':''));}},
   pause(){set({mode:'paused'});},
   stop(){get().engine?.endDrag();set({engine:null,mode:'design',time:0,metrics:{},samples:[],overloaded:false,system:{input:0,output:0,efficiency:null,energy:0}});resetClock();},
   step(){try{const e=get().engine??new MechanicaEngine(useEditor.getState().project);e.step();set({engine:e,mode:'paused'});get().publish();}catch(error){useEditor.getState().notify(error instanceof Error?error.message:'물리 계산 오류');}},

diff --git a/src/styles.css b/src/styles.css
@@ -10,3 +10,4 @@
 @media(max-height:720px){.app-header{height:57px;min-height:57px}.app-toolbar,.workspace-tab{height:36px;min-height:36px}.main-grid{grid-template-rows:minmax(210px,1fr) 185px}.analysis-panel .simulation-controls{height:39px;min-height:39px}.scope-heading{height:29px;min-height:29px}.scope-legend{height:28px;min-height:28px}.object-tree{height:125px}.examples-launch{height:53px;min-height:53px}.library-panel>.panel-heading{height:40px;min-height:40px}.part-card{height:88px}.floating-tools{top:52px;gap:1px}.floating-tools button{height:27px}.dialog-heading{padding:18px 23px}.example-image{height:80px}.dialog-content{padding-top:18px;padding-bottom:18px}}
 @media(prefers-reduced-motion:reduce){*{animation:none!important;transition:none!important}}
 .file-download-link{display:flex;align-items:center;gap:10px;text-decoration:none;font-size:10px;padding:10px;border-radius:4px;color:#9ac5ae}.file-download-link:hover{background:#2a3a47}.file-download-link svg{color:#80a592}
+.gear-assist{margin:12px 0;padding:12px;border:1px solid #856c42;border-radius:7px;background:#302a1d55;font-size:10px;display:flex;flex-direction:column;gap:8px}.gear-assist.ready{background:#19372c55;border-color:#3c7058}.gear-assist strong{font-size:11px;color:#d2e6db;display:flex;justify-content:space-between;flex-wrap:wrap;gap:6px}.gear-assist strong span{font-size:9px;color:#d9b57f}.gear-assist.ready strong span{color:#8adab3}.gear-assist p{font-size:10px;color:#a2b6bd;line-height:1.7;white-space:normal;overflow-wrap:anywhere}.gear-assist>div{display:flex;justify-content:space-between;color:#90a7b7}.gear-assist code{font-size:11px;color:#cee4de}.gear-assist small{font-size:9px;color:#819c9c;line-height:1.7}.gear-assist button{font-size:11px;white-space:normal}

diff --git a/src/model/editing.ts b/src/model/editing.ts
@@ -1,0 +1,18 @@
+import { type Part, type Vec, isGear, radiusOf, localToWorld, worldToLocal, ROTARY, LOGIC } from './types';
+export const resizable=(p:Part)=>!LOGIC.has(p.kind)&&(!ROTARY.has(p.kind)||p.kind==='conveyor');
+export const resizeHandles=(p:Part)=>[{x:-p.width/2,y:0},{x:p.width/2,y:0},{x:0,y:-p.height/2},{x:0,y:p.height/2}];
+export function resizeFromEdge(p:Part,edge:number,point:Vec,grid=0):Part {
+  const local=worldToLocal(p,point),horizontal=edge<2,sign=edge%2===0?-1:1,size=horizontal?p.width:p.height;
+  let length=Math.max(.08,Math.min(30,sign*(horizontal?local.x:local.y)+size/2));
+  if(grid)length=Math.max(.08,Math.min(30,Math.round(length/grid)*grid));
+  const offset=sign*(length-size)/2,center=localToWorld(p,horizontal?{x:offset,y:0}:{x:0,y:offset});
+  return {...p,...center,...(horizontal?{width:length}:{height:length})};
+}
+export function snapGear(p:Part,others:Part[],distance:number):{point:Vec;other:Part}|null {
+  if(!isGear(p))return null;
+  let best=distance,result:null|{point:Vec;other:Part}=null;
+  for(const other of others){if(!isGear(other)||other.id===p.id||Math.abs(other.module-p.module)>1e-5)continue;
+    const dx=p.x-other.x,dy=p.y-other.y,d=Math.hypot(dx,dy),target=radiusOf(p)+radiusOf(other),error=Math.abs(d-target);
+    if(d>.01&&error<best){best=error;result={point:{x:other.x+dx/d*target,y:other.y+dy/d*target},other};}
+  }return result;
+}

diff --git a/README.md b/README.md
@@ -20,6 +20,13 @@ React 19 · TypeScript · Vite · Canvas 2D · Planck / Box2D · Zustand · Inde
 4. **실시간 측정** 탭과 아래 그래프에서 결과를 확인합니다.
 5. **정지 및 설계 복귀** 버튼으로 원래 부품 배치와 임시 물리 속성을 복원합니다. 표시·배속·중력 같은 환경 설정은 유지됩니다.
 
+## 편의 기능 업데이트
+
+- 기어를 가까이 드래그하면 톱니 바깥쪽이 아닌 피치 원 기준으로 스냅합니다. Alt로 잠시 해제할 수 있습니다.
+- 오른쪽 맞물림 도우미에서 간격·겹침을 mm로 확인하고 **위치 맞추고 연결**을 누르세요. 기어 하나만 선택해도 가장 가까운 기어와 비교합니다.
+- 연결 오류로 실행이 막히면 해당 부품을 자동 선택합니다.
+- 프레임·막대·사각형 부품을 선택하고 민트색 네모 손잡이를 드래그해 길이·높이를 조절하세요. 반대쪽 끝과 기존 연결점의 월드 위치는 유지됩니다. Esc로 취소, Ctrl+Z로 복원합니다.
+
 ## 직접 설계
 
 - 부품 카드를 작업 공간에 드래그하거나 카드를 클릭한 뒤 원하는 위치를 클릭합니다.
@@ -93,6 +100,6 @@ examples/        가져오기 가능한 10개 예제 프로젝트
 
 이 버전은 작동하는 핵심 기계 실험실입니다. 산업용 치면 해석기나 전체 요구 사양의 모든 세부 기능이 완성된 CAD는 아닙니다. 이상적인 강체 기어, 원형 풀리, 마찰 제한 벨트/클러치, 크랭크·슬라이더·힌지·스프링, 캠 접촉, 래칫, 힘/토크/브레이크, 접촉 기반 컨베이어와 논리 제어를 구현했습니다.
 
-미구현 항목은 **인벌류트 치면 접촉·백래시·재료 변형·파손·기어 허용 토크의 강제 단절**, **도르래를 경유하는 로프 경로 및 로프 질량**, **임의 캠 프로파일**, **이스케이프먼트**, **다중 채널 그래프 중첩/가속도 벡터**, **마우스 핸들에 의한 직접 크기 조절/회전**입니다. 치수·회전은 속성창과 단축키로 편집합니다. 외부 모듈 포트에는 연결 좌표를 보존하며 이름/타입을 별도로 설계하는 포트 편집기는 없습니다.
+미구현 항목은 **인벌류트 치면 접촉·백래시·재료 변형·파손·기어 허용 토크의 강제 단절**, **도르래를 경유하는 로프 경로 및 로프 질량**, **임의 캠 프로파일**, **이스케이프먼트**, **다중 채널 그래프 중첩/가속도 벡터**, **마우스 핸들에 의한 직접 회전**입니다. 프레임·막대·사각형 부품의 치수는 작업 공간의 손잡이로 조절할 수 있습니다. 회전은 속성창과 단축키로 편집합니다. 외부 모듈 포트에는 연결 좌표를 보존하며 이름/타입을 별도로 설계하는 포트 편집기는 없습니다.
 
 상세한 단순화, 방정식, 에너지·단위·안정성 및 테스트 범위는 **`docs/PHYSICS.md`**와 **`docs/VERIFICATION.md`**를 확인하세요.

diff --git a/docs/VERIFICATION.md b/docs/VERIFICATION.md
@@ -4,14 +4,14 @@
 
 ## 자동 테스트
 
-`npm test`: **42/42 통과**.
+`npm test`: **46/46 통과**.
 
 - `physics.test.ts`: 기어비·반대 회전, 부하로 인한 실속, 토크 제한, 반사 관성, 잘못된 중심거리, 모순되는 폐회로, 크랭크의 힌지 오차/왕복운동, 피스톤 외력의 역전달, 벨트 비/슬립/수동 에너지, 랙, 스프링 감쇠, 고정 120Hz, 첫 스텝 이전 계측, 200개 활성 부품.
 - 모든 10개 예제를 각각 6초간 계산하여 유한한 위치·각도·에너지를 확인합니다.
 - `automation.test.ts`: AND/OR/NOT와 모터, 타이머와 지연 초기화, 속도·위치·실제 접촉 센서, 선형 액추에이터의 힘 제한, SI 운동량 변화, 브레이크·래칫·로프·실제 컨베이어 운반·자동차 주행·캠 팔로어 접촉.
 - `persistence.test.ts`: 예제 데이터 왕복, ID/참조/수치 검증, IndexedDB 저장/복원과 동일한 계산 결과, 잘못된 파일을 거부한 뒤 기존 저장 유지, 실험 후 설계 복원, 모듈의 내부 연결/외부 포트/센서 참조 remap, Undo/Redo.
 
-`npm run test:e2e`: **9/9 통과**.
+`npm run test:e2e`: **12/12 통과**.
 
 1. 실행 → 일시정지 → 단일 스텝 → 설계 상태 복원. 브라우저 오류 없음.
 2. 부품 배치, 질량 편집, 복제, Undo/Redo, 삭제.
@@ -42,3 +42,7 @@ GitHub 및 Vercel의 실제 배포/CI 상태는 저장소와 배포 서비스에
 ## 모델 한계
 
 이상적인 기어와 강체 모델입니다. 치면 접촉/백래시/파손, 실제 로프 질량/도르래 경유 경로, 임의 캠 형상, 시계 이스케이프먼트 등 미구현 항목과 토크·에너지·스프링 상한의 정확한 의미는 `PHYSICS.md`와 README에 명시했습니다.
+
+## 편의 기능 추가 검증
+
+피치 원 스냅, 서로 다른 크기의 기어, 모듈 불일치 거부, 회전된 프레임의 반대 끝 고정 리사이즈, 연결점 월드 좌표 보존, 맞물림 수정의 Undo를 자동 검증합니다. 브라우저에서 오류 후 맞물림 도우미로 수정해 실행하기, 프레임 손잡이로 3m→4m 변경 및 Undo, 격자 1.25m 대신 피치 거리 1.2m로 드래그 스냅하기를 검증했습니다.
